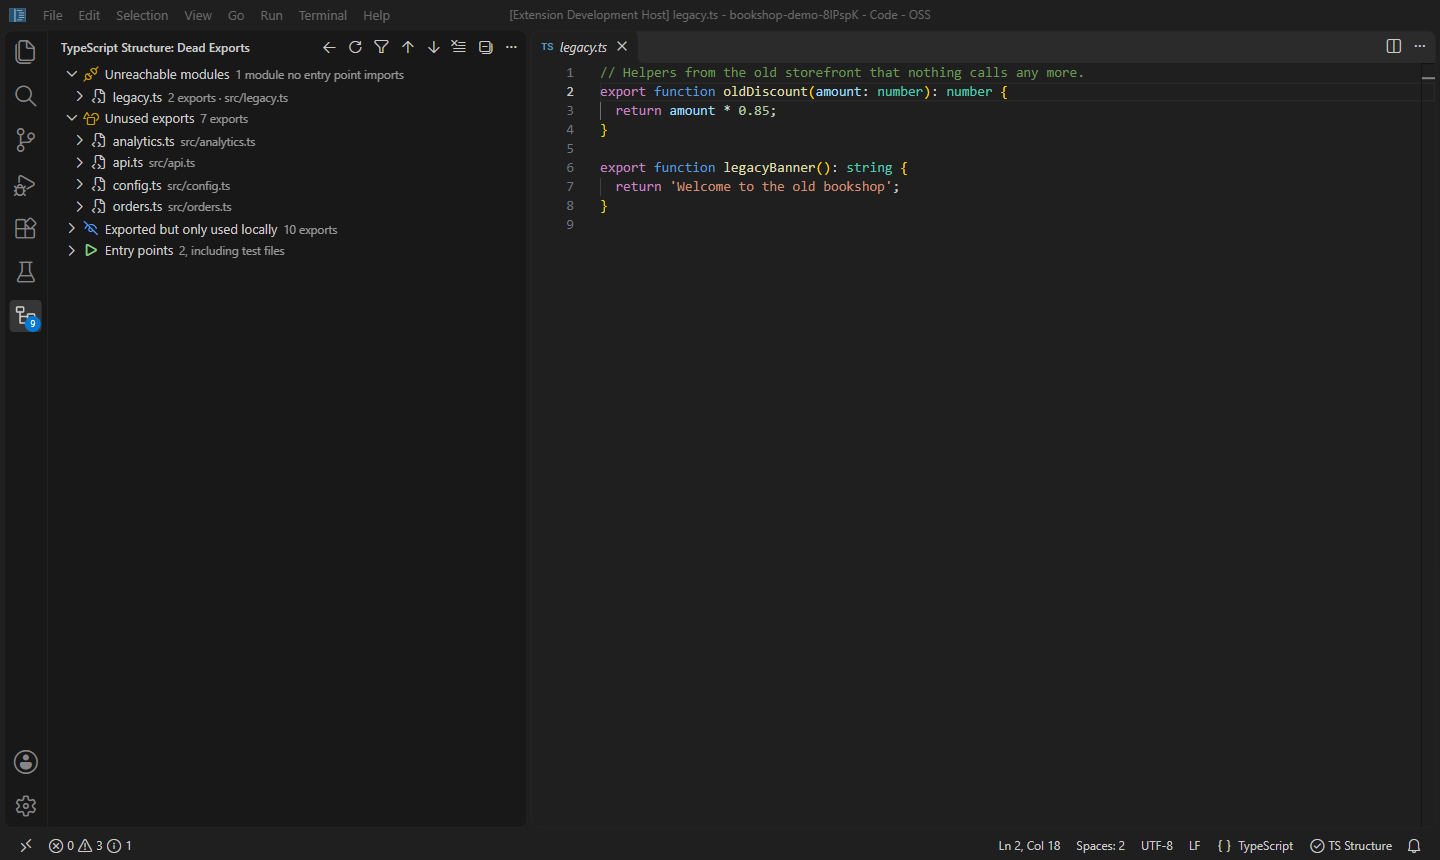
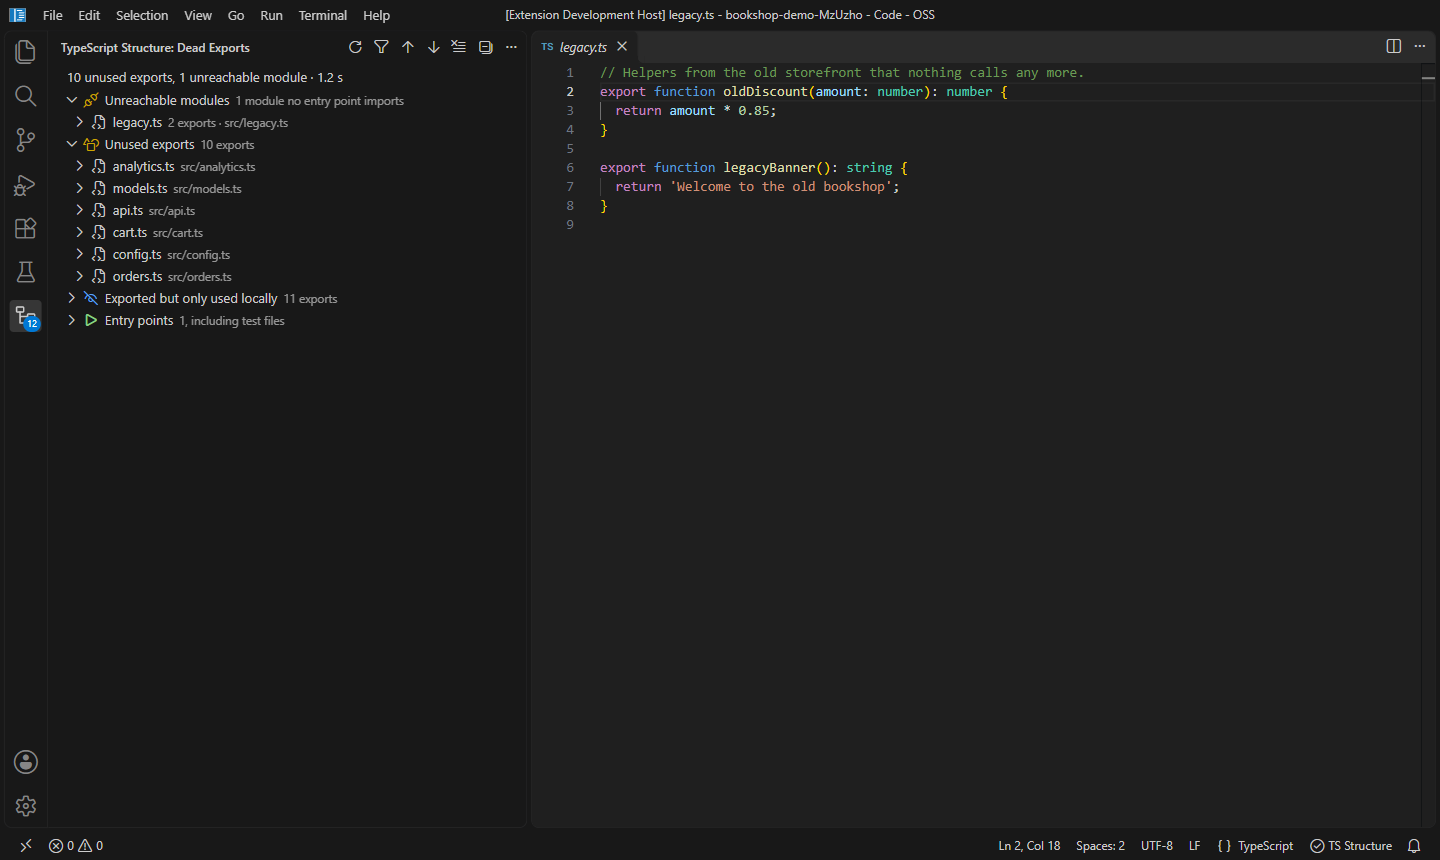
Guide: Dead Export Analyzer, with a screenshot

diff --git a/README.md b/README.md
@@ -347,6 +347,17 @@ Every analysis can be started three ways: from the editor's right-click menu und
 5. Change how loud each inspection is with `tsStructure.inspections.severity`, for example `{ "typeAssertion": "info" }`, or `"off"` to disable it.
 6. Tests often need assertions for mocks and fixtures. Turn on `tsStructure.typeAssertion.ignoreTestFiles` to skip test files, such as `*.test.ts` or files that import a test framework.
 
+### Dead Export Analyzer
+
+![Dead exports in the demo: legacy.ts is unreachable, ten exports in six files are unused, and eleven are only used inside their own module](docs/images/dead-exports.png)
+
+1. Open any file in the project and run **Dead Export Analyzer**. The whole project is analyzed.
+2. Check **Entry points** at the bottom. The analyzer starts from the files named in `package.json` (`main`, `module`, `exports`, `bin`, here `src/main.ts`) and from test files. Without those it falls back to `src/index.ts`, `src/main.ts` and similar. Set `tsStructure.deadExports.entryPoints` (globs) if the guess is wrong.
+3. **Unreachable modules** are files no entry point imports, directly or indirectly, such as `legacy.ts`. The trash button (**Safe Delete File…**) checks for remaining references before deleting.
+4. **Unused exports** are exported names nothing reachable imports. Each row's trash button runs **Safe Delete…** on the declaration.
+5. **Exported but only used locally** are names used inside their own module only. The button on the row (**Remove export Keyword**) keeps the code and drops `export`.
+6. Exports reached through `export *` barrels, renamed re-exports, `import * as ns` and dynamic `import()` count as used. Turn off `tsStructure.deadExports.testFilesAreEntryPoints` to also find exports that only tests use.
+
 ## Test Impact Analysis
 
 ### Usage
